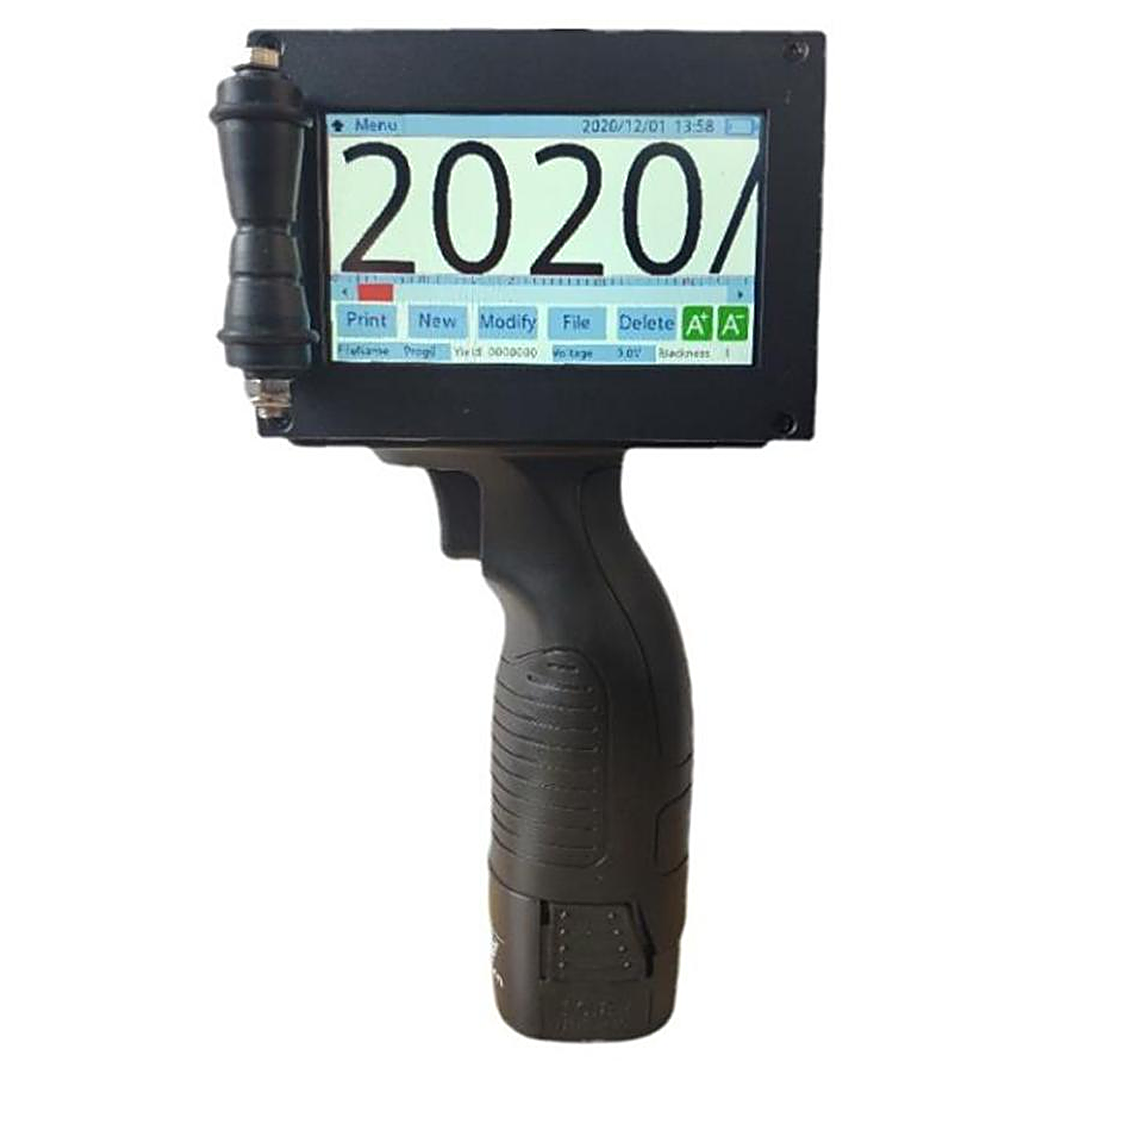
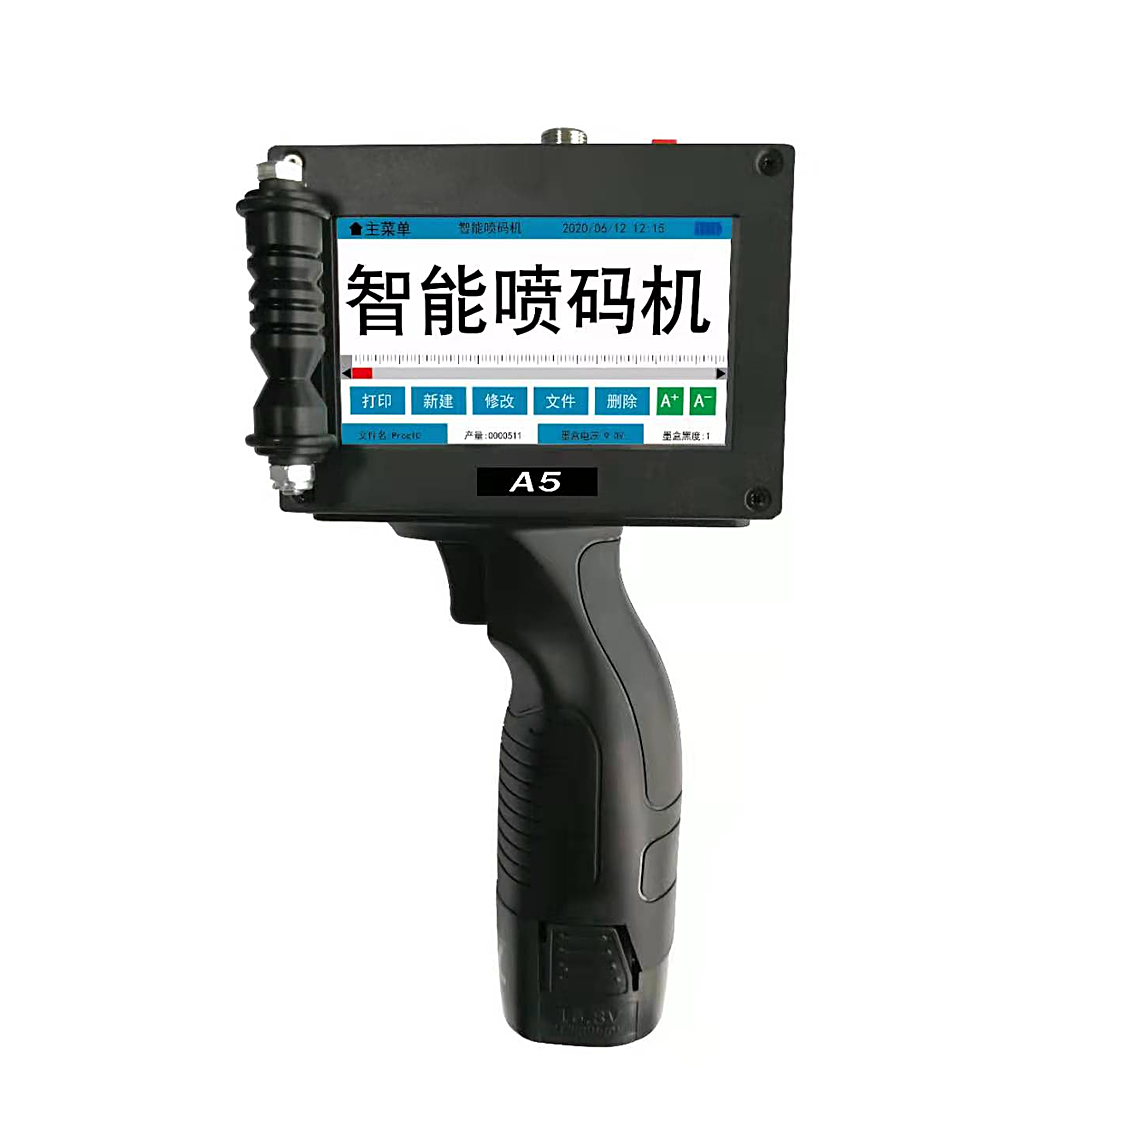
Add inkjet detail galleries (5-6 images per model) and sharper A5 hero
- 56 detail images (machine details, TIJ cartridge, application/print samples)
  added to the 13 inkjet products' detailGallery; P500 skips detail-2 (shows a
  different dual-head machine)
- A9, A5C, T9, M70 have 4 images total (hero + 3 details) - no clean
  same-model detail photo exists for them, no filler added
- A5 hero replaced with the sharper Chinagoods downscale (hero-taobao2)
- No price, spec, or other product changes

Changed region(s): [[0.1858, 0.0, 0.7434, 0.9292]]

diff --git a/src/data/products.ts b/src/data/products.ts
@@ -148,7 +148,7 @@ export const products: Product[] = [
     slug: 'a3-handheld-inkjet-printer', model: 'A3/A3S', name: 'A3 Handheld Thermal Inkjet Printer', type: 'Handheld thermal inkjet printer', category: 'inkjet-printers', parentCategory: 'inkjet-printers', subcategory: 'inkjet', useCategory: 'inkjet-standalone', price: 138, badge: 'Entry point',
     hero: '/assets/products/a3-handheld-inkjet-printer/hero.png',
     gallery: ['/assets/products/a3-handheld-inkjet-printer/hero.png'],
-    detailGallery: ['/assets/products/a3-handheld-inkjet-printer/hero.png'],
+    detailGallery: ['/assets/products/a3-handheld-inkjet-printer/hero.png', '/assets/products/a3-handheld-inkjet-printer/detail-1.png', '/assets/products/a3-handheld-inkjet-printer/detail-2.png', '/assets/products/a3-handheld-inkjet-printer/detail-3.png', '/assets/products/a3-handheld-inkjet-printer/detail-4.png', '/assets/products/a3-handheld-inkjet-printer/detail-5.png'],
     description: 'A lightweight handheld thermal inkjet printer with a 4.3-inch touchscreen for date, batch and expiry coding on cartons, plastic, metal, glass, wood and film.',
     longDescription: 'The A3 is a lightweight handheld thermal inkjet (TIJ) printer with a 4.3-inch touchscreen. It prints dates, batch numbers and expiry codes on cartons, plastic, metal, glass, wood and film, using quick-dry TIJ cartridges. Price excludes ink cartridge.',
     applications: 'Cartons · Plastic · Metal · Glass · Wood · Film packaging',
@@ -158,7 +158,7 @@ export const products: Product[] = [
     slug: 'a5-handheld-inkjet-printer', model: 'A5/A5S', name: 'A5 Handheld Thermal Inkjet Printer', type: 'Handheld thermal inkjet printer', category: 'inkjet-printers', parentCategory: 'inkjet-printers', subcategory: 'inkjet', useCategory: 'inkjet-standalone', price: 155, badge: 'Metal shell',
     hero: '/assets/products/a5-handheld-inkjet-printer/hero.png',
     gallery: ['/assets/products/a5-handheld-inkjet-printer/hero.png'],
-    detailGallery: ['/assets/products/a5-handheld-inkjet-printer/hero.png'],
+    detailGallery: ['/assets/products/a5-handheld-inkjet-printer/hero.png', '/assets/products/a5-handheld-inkjet-printer/detail-1.png', '/assets/products/a5-handheld-inkjet-printer/detail-2.png', '/assets/products/a5-handheld-inkjet-printer/detail-3.png', '/assets/products/a5-handheld-inkjet-printer/detail-4.png', '/assets/products/a5-handheld-inkjet-printer/detail-5.png'],
     description: 'A metal-shell handheld thermal inkjet printer with a 4.3-inch touchscreen, external synchronizer or V-wheel option, for date, batch, barcode and QR coding on almost any surface.',
     longDescription: 'The A5 is a metal-shell handheld thermal inkjet (TIJ) printer with a 4.3-inch resistive touchscreen and embedded operating system. It prints dates, batch numbers, barcodes and QR codes on cartons, plastic, metal, glass, wood, pipes and cables, and can switch between handheld and pipeline use. Price excludes ink cartridge.',
     applications: 'Cartons · Plastic · Metal · Glass · Wood · Pipes · Cables',
@@ -168,7 +168,7 @@ export const products: Product[] = [
     slug: 'a9-handheld-inkjet-printer', model: 'A9/A9S', name: 'A9 Handheld Thermal Inkjet Printer', type: 'Handheld thermal inkjet printer', category: 'inkjet-printers', parentCategory: 'inkjet-printers', subcategory: 'inkjet', useCategory: 'inkjet-standalone', price: 200, badge: '5-inch screen',
     hero: '/assets/products/a9-handheld-inkjet-printer/hero.png',
     gallery: ['/assets/products/a9-handheld-inkjet-printer/hero.png'],
-    detailGallery: ['/assets/products/a9-handheld-inkjet-printer/hero.png'],
+    detailGallery: ['/assets/products/a9-handheld-inkjet-printer/hero.png', '/assets/products/a9-handheld-inkjet-printer/detail-1.png', '/assets/products/a9-handheld-inkjet-printer/detail-2.png', '/assets/products/a9-handheld-inkjet-printer/detail-3.png'],
     description: 'A handheld thermal inkjet printer with a large 5-inch touchscreen and ABS shell for date, batch, barcode and QR coding on cartons, packaging and industrial parts.',
     longDescription: 'The A9 is a handheld thermal inkjet (TIJ) printer with a large 5-inch touchscreen and ABS shell. It prints dates, batch numbers, barcodes and QR codes on cartons, packaging and industrial parts, using quick-dry TIJ cartridges. Price excludes ink cartridge.',
     applications: 'Cartons · Plastic · Metal · Glass · Wood · Packaging bags',
@@ -178,7 +178,7 @@ export const products: Product[] = [
     slug: 'p500-handheld-inkjet-printer', model: 'P500/P500S', name: 'P500 Two-Head Handheld Thermal Inkjet Printer', type: 'Two-head handheld thermal inkjet printer', category: 'inkjet-printers', parentCategory: 'inkjet-printers', subcategory: 'inkjet', useCategory: 'inkjet-standalone', price: 227, badge: 'Two heads',
     hero: '/assets/products/p500-handheld-inkjet-printer/hero.png',
     gallery: ['/assets/products/p500-handheld-inkjet-printer/hero.png'],
-    detailGallery: ['/assets/products/p500-handheld-inkjet-printer/hero.png'],
+    detailGallery: ['/assets/products/p500-handheld-inkjet-printer/hero.png', '/assets/products/p500-handheld-inkjet-printer/detail-1.png', '/assets/products/p500-handheld-inkjet-printer/detail-3.png', '/assets/products/p500-handheld-inkjet-printer/detail-4.png'],
     description: 'A two-head handheld thermal inkjet printer that prints up to 25.4 mm high in one pass — large dates, batch codes, logos and barcodes on cartons and large packaging.',
     longDescription: 'The P500 is a two-head handheld thermal inkjet (TIJ) printer that prints up to 25.4 mm high in a single pass, for large dates, batch codes, logos and barcodes on cartons and large packaging. Price excludes ink cartridges.',
     applications: 'Cartons · Large packaging · Wood · Metal · Plastic',
@@ -188,7 +188,7 @@ export const products: Product[] = [
     slug: 'a5c-handheld-inkjet-printer', model: 'A5C/A5CS', name: 'A5C Side-Held Thermal Inkjet Printer', type: 'Side-held thermal inkjet printer', category: 'inkjet-printers', parentCategory: 'inkjet-printers', subcategory: 'inkjet', useCategory: 'inkjet-standalone', price: 166, badge: 'Side grip',
     hero: '/assets/products/a5c-handheld-inkjet-printer/hero.png',
     gallery: ['/assets/products/a5c-handheld-inkjet-printer/hero.png'],
-    detailGallery: ['/assets/products/a5c-handheld-inkjet-printer/hero.png'],
+    detailGallery: ['/assets/products/a5c-handheld-inkjet-printer/hero.png', '/assets/products/a5c-handheld-inkjet-printer/detail-1.png', '/assets/products/a5c-handheld-inkjet-printer/detail-2.png', '/assets/products/a5c-handheld-inkjet-printer/detail-3.png'],
     description: 'A side-held thermal inkjet printer with a 3.4-inch screen for coding on the side of cartons, bottles and parts that are awkward to mark from above.',
     longDescription: 'The A5C is a side-held thermal inkjet (TIJ) printer with a 3.4-inch screen, designed for coding on the side of cartons, bottles and parts that are awkward to mark from above. Price excludes ink cartridge.',
     applications: 'Cartons · Bottles · Pipes · Side surfaces · Packaging',
@@ -198,7 +198,7 @@ export const products: Product[] = [
     slug: 't5-online-inkjet-printer', model: 'T5/T5S', name: 'T5 Online Thermal Inkjet Printer', type: 'Online thermal inkjet printer', category: 'inkjet-printers', parentCategory: 'inkjet-printers', subcategory: 'inkjet', useCategory: 'inkjet-packaging-line', price: 165, badge: 'For production lines',
     hero: '/assets/products/t5-online-inkjet-printer/hero.png',
     gallery: ['/assets/products/t5-online-inkjet-printer/hero.png'],
-    detailGallery: ['/assets/products/t5-online-inkjet-printer/hero.png'],
+    detailGallery: ['/assets/products/t5-online-inkjet-printer/hero.png', '/assets/products/t5-online-inkjet-printer/detail-1.png', '/assets/products/t5-online-inkjet-printer/detail-2.png', '/assets/products/t5-online-inkjet-printer/detail-3.png', '/assets/products/t5-online-inkjet-printer/detail-4.png', '/assets/products/t5-online-inkjet-printer/detail-5.png'],
     description: 'An online thermal inkjet printer with an aluminum cover for production lines — date, batch, barcode and QR coding triggered by photoelectric sensor as products pass.',
     longDescription: 'The T5 is an online thermal inkjet (TIJ) printer with an aluminum cover for production lines. A photoelectric sensor triggers date, batch, barcode and QR coding as products pass under the print head. Price excludes ink cartridge.',
     applications: 'Production lines · Cartons · Bottles · Pipes · Cables · Packaging lines',
@@ -208,7 +208,7 @@ export const products: Product[] = [
     slug: 't6-online-inkjet-printer', model: 'T6/T6S', name: 'T6 Online Thermal Inkjet Printer', type: 'Online thermal inkjet printer', category: 'inkjet-printers', parentCategory: 'inkjet-printers', subcategory: 'inkjet', useCategory: 'inkjet-packaging-line', price: 175, badge: 'For production lines',
     hero: '/assets/products/t6-online-inkjet-printer/hero.png',
     gallery: ['/assets/products/t6-online-inkjet-printer/hero.png'],
-    detailGallery: ['/assets/products/t6-online-inkjet-printer/hero.png'],
+    detailGallery: ['/assets/products/t6-online-inkjet-printer/hero.png', '/assets/products/t6-online-inkjet-printer/detail-1.png', '/assets/products/t6-online-inkjet-printer/detail-2.png', '/assets/products/t6-online-inkjet-printer/detail-3.png', '/assets/products/t6-online-inkjet-printer/detail-4.png', '/assets/products/t6-online-inkjet-printer/detail-5.png'],
     description: 'An online thermal inkjet printer with a metal cover for production lines — date, batch, barcode and QR coding triggered by photoelectric sensor as products pass.',
     longDescription: 'The T6 is an online thermal inkjet (TIJ) printer with a metal cover for production lines. A photoelectric sensor triggers date, batch, barcode and QR coding as products pass under the print head. Price excludes ink cartridge.',
     applications: 'Production lines · Cartons · Bottles · Pipes · Cables · Packaging lines',
@@ -218,7 +218,7 @@ export const products: Product[] = [
     slug: 't9-online-inkjet-printer', model: 'T9/T9S', name: 'T9 Online Thermal Inkjet Printer', type: 'Online thermal inkjet printer', category: 'inkjet-printers', parentCategory: 'inkjet-printers', subcategory: 'inkjet', useCategory: 'inkjet-packaging-line', price: 188, badge: 'For production lines',
     hero: '/assets/products/t9-online-inkjet-printer/hero.png',
     gallery: ['/assets/products/t9-online-inkjet-printer/hero.png'],
-    detailGallery: ['/assets/products/t9-online-inkjet-printer/hero.png'],
+    detailGallery: ['/assets/products/t9-online-inkjet-printer/hero.png', '/assets/products/t9-online-inkjet-printer/detail-1.png', '/assets/products/t9-online-inkjet-printer/detail-2.png', '/assets/products/t9-online-inkjet-printer/detail-3.png'],
     description: 'An online thermal inkjet printer with a metal cover and large 5-inch touchscreen for production lines — date, batch, barcode and QR coding on cartons, bottles and packaging.',
     longDescription: 'The T9 is an online thermal inkjet (TIJ) printer with a metal cover and a large 5-inch touchscreen for production lines. A photoelectric sensor triggers date, batch, barcode and QR coding as products pass under the print head. Price excludes ink cartridge.',
     applications: 'Production lines · Cartons · Bottles · Pipes · Cables · Packaging lines',
@@ -228,7 +228,7 @@ export const products: Product[] = [
     slug: 't10-1-online-inkjet-printer', model: 'T10-1/T10S-1', name: 'T10-1 Online Thermal Inkjet Printer', type: 'Online thermal inkjet printer', category: 'inkjet-printers', parentCategory: 'inkjet-printers', subcategory: 'inkjet', useCategory: 'inkjet-packaging-line', price: 200, badge: 'Fine adjustment',
     hero: '/assets/products/t10-1-online-inkjet-printer/hero.png',
     gallery: ['/assets/products/t10-1-online-inkjet-printer/hero.png'],
-    detailGallery: ['/assets/products/t10-1-online-inkjet-printer/hero.png'],
+    detailGallery: ['/assets/products/t10-1-online-inkjet-printer/hero.png', '/assets/products/t10-1-online-inkjet-printer/detail-1.png', '/assets/products/t10-1-online-inkjet-printer/detail-2.png', '/assets/products/t10-1-online-inkjet-printer/detail-3.png', '/assets/products/t10-1-online-inkjet-printer/detail-4.png', '/assets/products/t10-1-online-inkjet-printer/detail-5.png'],
     description: 'An online thermal inkjet printer with an aluminum cover, fine print-position adjustment and a large 7-inch touchscreen for production lines.',
     longDescription: 'The T10-1 is an online thermal inkjet (TIJ) printer with an aluminum cover, fine print-position adjustment and a large 7-inch touchscreen for production lines. A photoelectric sensor triggers date, batch, barcode and QR coding as products pass. Price excludes ink cartridge.',
     applications: 'Production lines · Cartons · Bottles · Pipes · Cables · Packaging lines',
@@ -238,7 +238,7 @@ export const products: Product[] = [
     slug: 't10-2-online-inkjet-printer', model: 'T10-2/T10S-2', name: 'T10-2 Two-Head Online Thermal Inkjet Printer', type: 'Two-head online thermal inkjet printer', category: 'inkjet-printers', parentCategory: 'inkjet-printers', subcategory: 'inkjet', useCategory: 'inkjet-packaging-line', price: 315, badge: 'Two heads',
     hero: '/assets/products/t10-2-online-inkjet-printer/hero.png',
     gallery: ['/assets/products/t10-2-online-inkjet-printer/hero.png'],
-    detailGallery: ['/assets/products/t10-2-online-inkjet-printer/hero.png'],
+    detailGallery: ['/assets/products/t10-2-online-inkjet-printer/hero.png', '/assets/products/t10-2-online-inkjet-printer/detail-1.png', '/assets/products/t10-2-online-inkjet-printer/detail-2.png', '/assets/products/t10-2-online-inkjet-printer/detail-3.png', '/assets/products/t10-2-online-inkjet-printer/detail-4.png', '/assets/products/t10-2-online-inkjet-printer/detail-5.png'],
     description: 'A two-head online thermal inkjet printer with an aluminum cover, fine print-position adjustment and a 7-inch touchscreen — up to 25.4 mm print height in one pass on production lines.',
     longDescription: 'The T10-2 is a two-head online thermal inkjet (TIJ) printer with an aluminum cover, fine print-position adjustment and a 7-inch touchscreen. Two print heads cover up to 25.4 mm print height in one pass on production lines. Price excludes ink cartridges.',
     applications: 'Production lines · Cartons · Large packaging · Bottles · Pipes',
@@ -248,7 +248,7 @@ export const products: Product[] = [
     slug: 'm70-mini-inkjet-printer', model: 'M70', name: 'M70 Mini Handheld Thermal Inkjet Printer', type: 'Mini handheld thermal inkjet printer', category: 'inkjet-printers', parentCategory: 'inkjet-printers', subcategory: 'inkjet', useCategory: 'inkjet-standalone', price: 125, badge: 'Mini',
     hero: '/assets/products/m70-mini-inkjet-printer/hero.png',
     gallery: ['/assets/products/m70-mini-inkjet-printer/hero.png'],
-    detailGallery: ['/assets/products/m70-mini-inkjet-printer/hero.png'],
+    detailGallery: ['/assets/products/m70-mini-inkjet-printer/hero.png', '/assets/products/m70-mini-inkjet-printer/detail-1.png', '/assets/products/m70-mini-inkjet-printer/detail-2.png', '/assets/products/m70-mini-inkjet-printer/detail-3.png'],
     description: 'A pocket-size mini handheld thermal inkjet printer with a 2.8-inch touchscreen for quick date, batch and QR coding on small products, bottles and cartons.',
     longDescription: 'The M70 is a pocket-size mini handheld thermal inkjet (TIJ) printer with a 2.8-inch touchscreen for quick date, batch and QR coding on small products, bottles and cartons. Price excludes ink cartridge.',
     applications: 'Small products · Bottles · Cartons · Labels · Retail',
@@ -258,7 +258,7 @@ export const products: Product[] = [
     slug: 'k90-desktop-inkjet-printer', model: 'K90/K90S', name: 'K90 Desktop Thermal Inkjet Printer', type: 'Desktop thermal inkjet printer', category: 'inkjet-printers', parentCategory: 'inkjet-printers', subcategory: 'inkjet', useCategory: 'inkjet-standalone', price: 195, badge: 'Desktop',
     hero: '/assets/products/k90-desktop-inkjet-printer/hero.png',
     gallery: ['/assets/products/k90-desktop-inkjet-printer/hero.png'],
-    detailGallery: ['/assets/products/k90-desktop-inkjet-printer/hero.png'],
+    detailGallery: ['/assets/products/k90-desktop-inkjet-printer/hero.png', '/assets/products/k90-desktop-inkjet-printer/detail-1.png', '/assets/products/k90-desktop-inkjet-printer/detail-2.png', '/assets/products/k90-desktop-inkjet-printer/detail-3.png', '/assets/products/k90-desktop-inkjet-printer/detail-4.png', '/assets/products/k90-desktop-inkjet-printer/detail-5.png'],
     description: 'A desktop thermal inkjet printer with a metal cover and 7-inch touchscreen for bench-top date, batch, barcode and QR coding, triggered by button, foot switch or sensor.',
     longDescription: 'The K90 is a desktop thermal inkjet (TIJ) printer with a metal cover and a 7-inch HD capacitive touchscreen for bench-top date, batch, barcode and QR coding, triggered by button, foot switch or sensor. Price excludes ink cartridge.',
     applications: 'Bench-top coding · Cartons · Labels · Bottles · Small production',
@@ -268,7 +268,7 @@ export const products: Product[] = [
     slug: 'k80-conveyor-inkjet-printer', model: 'K80/K80S', name: 'K80 Conveyor Thermal Inkjet Printer', type: 'Conveyor thermal inkjet printer', category: 'inkjet-printers', parentCategory: 'inkjet-printers', subcategory: 'inkjet', useCategory: 'inkjet-packaging-line', price: 235, badge: 'With conveyor',
     hero: '/assets/products/k80-conveyor-inkjet-printer/hero.png',
     gallery: ['/assets/products/k80-conveyor-inkjet-printer/hero.png'],
-    detailGallery: ['/assets/products/k80-conveyor-inkjet-printer/hero.png'],
+    detailGallery: ['/assets/products/k80-conveyor-inkjet-printer/hero.png', '/assets/products/k80-conveyor-inkjet-printer/detail-1.png', '/assets/products/k80-conveyor-inkjet-printer/detail-2.png', '/assets/products/k80-conveyor-inkjet-printer/detail-3.png', '/assets/products/k80-conveyor-inkjet-printer/detail-4.png', '/assets/products/k80-conveyor-inkjet-printer/detail-5.png'],
     description: 'A thermal inkjet printer mounted over a conveyor with fine print-position adjustment — products move under the print head for automatic date, batch, barcode and QR coding.',
     longDescription: 'The K80 is a thermal inkjet (TIJ) printer mounted over a conveyor with fine print-position adjustment. Products move under the print head for automatic date, batch, barcode and QR coding. Price excludes ink cartridge.',
     applications: 'Conveyor lines · Cartons · Bottles · Bags · Packaging lines',
